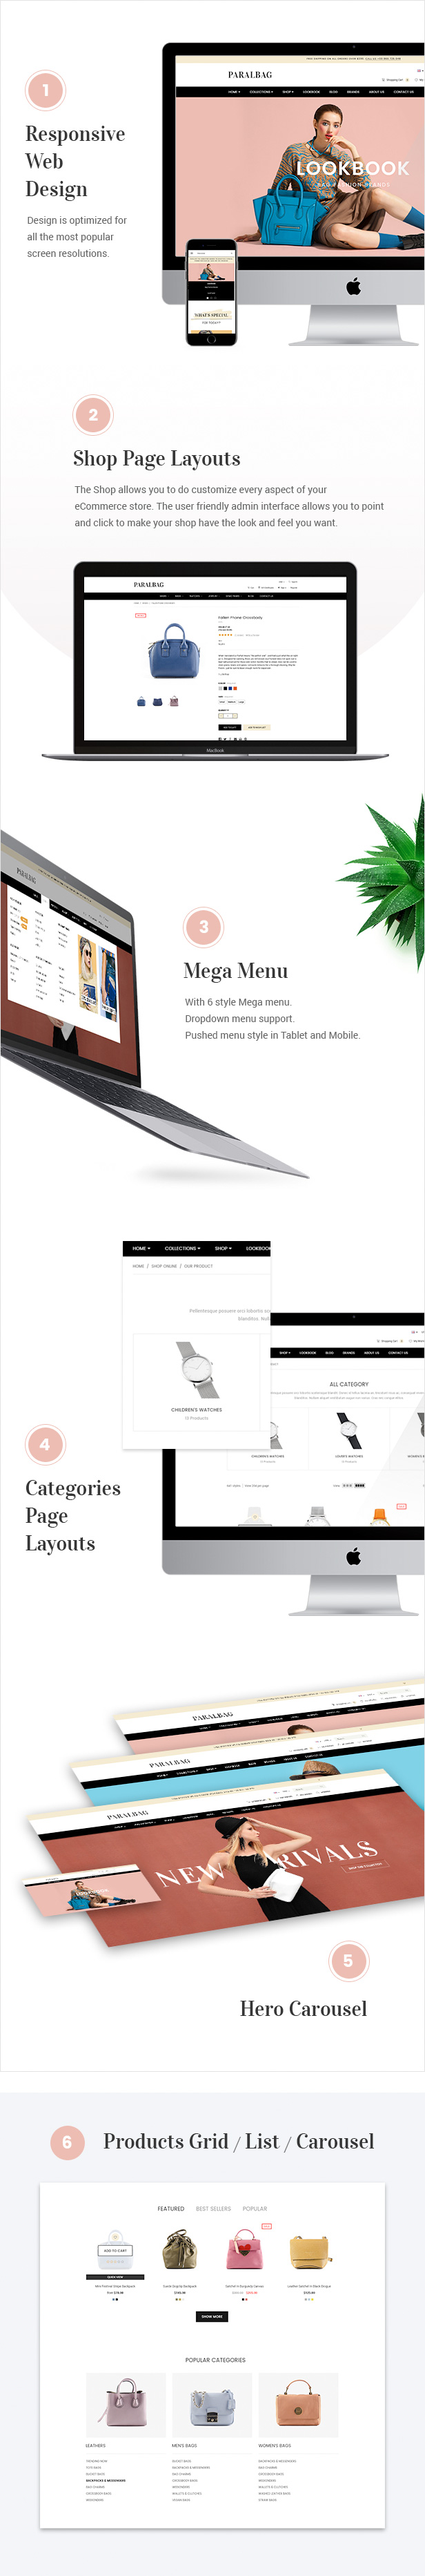
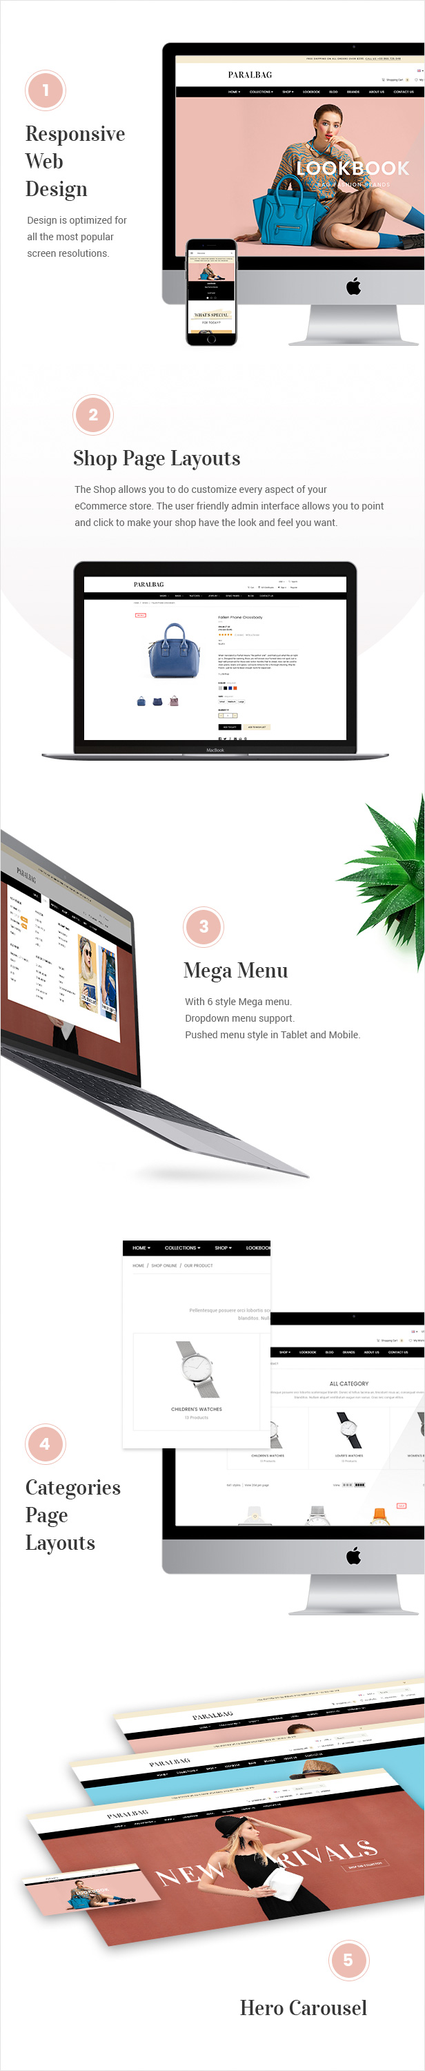
Update intro images

diff --git a/parallaxbag/intro/description.html b/parallaxbag/intro/description.html
@@ -1,0 +1,80 @@
+<table>
+<tr>
+<td><a href="mailto:tvlgiao@gmail.com"><img src="https://tvlgiao.github.io/bigcommerce-themes/parallaxbag/intro/images/02_Email-Us.png" alt="Email Us" /></a></td>
+<td><a href="http://bc-parallaxbag-docs.papathemes.com/"><img src="https://tvlgiao.github.io/bigcommerce-themes/parallaxbag/intro/images/02_Online-Documentation.png" alt="Online Documentation" /></a></td>
+<td><a href="https://papathemes.com/"><img src="https://tvlgiao.github.io/bigcommerce-themes/parallaxbag/intro/images/02_Online-Support.png" alt="Papathemes" /></a></td>
+</tr>
+</table>
+
+<p><img src="https://tvlgiao.github.io/bigcommerce-themes/parallaxbag/intro/images/03_Purchase-Now.png" alt="Purchase Now" /></p>
+<p><img src="https://tvlgiao.github.io/bigcommerce-themes/parallaxbag/intro/images/04_Features1.jpg" alt="Responsive Web Design, Shop Page Layouts, Mega Menu, Category Page Layouts, Hero Carousel, Products List" /></p>
+<p><img src="https://tvlgiao.github.io/bigcommerce-themes/parallaxbag/intro/images/04_Features2.jpg" alt="Products Grid / List / Carousel" /></p>
+<p><img src="https://tvlgiao.github.io/bigcommerce-themes/parallaxbag/intro/images/04_Features3.jpg" alt="Color Swatches on Product Cards" /></p>
+<p><img src="https://tvlgiao.github.io/bigcommerce-themes/parallaxbag/intro/images/04_Features4.jpg" alt="Custom Product Badges" /></p>
+<p><img src="https://tvlgiao.github.io/bigcommerce-themes/parallaxbag/intro/images/04_Features5.jpg" alt="Guide for Product Options" /></p>
+<p><img src="https://tvlgiao.github.io/bigcommerce-themes/parallaxbag/intro/images/04_Features6.jpg" alt="Many Banner Styles" /></p>
+<p><img src="https://tvlgiao.github.io/bigcommerce-themes/parallaxbag/intro/images/04_Features7.jpg" alt="Promotion Video" /></p>
+<p><img src="https://tvlgiao.github.io/bigcommerce-themes/parallaxbag/intro/images/04_Features8.jpg" alt="Recent Posts" /></p>
+<p><img src="https://tvlgiao.github.io/bigcommerce-themes/parallaxbag/intro/images/04_Features9.jpg" alt="Header Styles" /></p>
+<p><img src="https://tvlgiao.github.io/bigcommerce-themes/parallaxbag/intro/images/05_247-Support.jpg" alt="24/7 Support" /></p>
+
+
+
+<h2>Parallax BigCommerce Theme designed for fashion store selling bags, shoes, watches &amp; jewelry</h2>
+
+<p><strong>Paralbag</strong> is a <strong>responsive BigCommerce theme</strong> designed for <strong>fashion store</strong>. Suits for selling <strong>bags</strong>, <strong>shoes</strong>, <strong>watches</strong> and <strong>jewelry</strong>. Parallax page scrolling effect makes it look modern, impressive and premium. Design is clean, minimalist and professional.</p>
+<p>Theme is <strong>built with Stencil</strong>, compatible with the latest BigCommerce technology. The theme included detailed user guide, easy to install and configure everything in a few minutes. No coding skill required.</p>
+<p>Our support team is available 24/7 to answer you any technical problem.</p>
+
+
+<h2>Parallax Bag BigCommerce theme has many great features ready for running a successful e-commerce store:</h2>
+<ul>
+<li>Paralbag is tested and&nbsp;<strong>QC passed</strong>&nbsp;by the&nbsp;<strong>official BigCommerce technical staff</strong>.</li>
+<li>Built with&nbsp;<strong>Stencil framework</strong>, latest version and update to date. Compatible with BigCommerce latest version.</li>
+<li><strong>Responsive web design</strong>&nbsp;(RWD): Support mobile, tablet, small screen desktop and large screen.</li>
+<li><strong>Mega menu</strong>:&nbsp;lets you show categories and pages menu in multiple columns with fantastic banners and clear typography.</li>
+<li>The homepage includes many useful sections for ecommerce stores like:</li>
+<ul>
+<li>The&nbsp;<strong>main slideshow</strong>&nbsp;using slick carousel javascript, fully responsive and fast. Supports <strong>fixed width</strong> or <strong>full screen slideshow</strong>. No coding required. Just input heading, content, button, links and images. Multi-languages supported as well.</li>
+<li><strong>Creative banners</strong> let you show off promotions, fashion items with <strong>minimalist styles</strong>. Responsive and nice display on any desktop, mobile or tablets.</li>
+<li><strong>New products</strong>,&nbsp;<strong>feature products</strong>,&nbsp;<strong>bestselling products</strong>&nbsp;blocks. All these blocks can be configured to show up as&nbsp;<strong>grid</strong>,&nbsp;<strong>carousel</strong>, or&nbsp;<strong>column listing</strong>. You can also configure number of products, number of columns to display.</li>
+<li><strong>Newsletter form</strong> lets your customize opt-in the newsletter subscription for your email marketing campaigns.</li>
+<li><strong>Popular categories</strong> shows your top categories automatically.</li>
+<li><strong>Promotion video</strong> section allows you feature your favorite product video from Youtube.</li>
+<li><strong>Testimonials</strong> shows your customer testimonials and feedback and carousel slider.</li>
+<li><strong>Brands carousel</strong> lets you show your product brands automatically or manually. Furthermore, you can use this carousel to display any images as you want.</li>
+</ul>
+<li><strong>Header</strong>&nbsp;supports 3 common styles: Logo on the left, Logo on the right and Logo at center.</li>
+<li><strong>Footer</strong>&nbsp;supports to show your store info, address, links and your own custom links.</li>
+<li>Category page, products detail page, blog, post details, contact us, and all other pages are well styled precisely and pixel perfectly.</li>
+<li><strong>Powerful theme options</strong>&nbsp;that let you customize the theme without technical knowledge required:</li>
+<ul>
+<li>Fonts, typography and colors.</li>
+<li>All static content can be edited, show on/off in the theme options panel and in the language files.</li>
+</ul>
+<li>Paralbag theme supports&nbsp;<strong>language</strong> translations,&nbsp;<strong>multi-currencies</strong>&nbsp;and all other features which BigCommerce provides.</li>
+<li>The design is&nbsp;<strong>simple</strong>&nbsp;and&nbsp;<strong>minimal</strong>&nbsp;that can be used for any stores, especially&nbsp;<strong>fashion</strong>&nbsp;and&nbsp;<strong>bags store</strong>.</li>
+<li>Paralbag theme has&nbsp;<strong>detailed user guide</strong>&nbsp;to help you install and customize the theme for your own purposes.</li>
+<li>Installing the theme just takes a few minutes no technical required.</li>
+<li>Our support staffs are positive and enthusiastic to help you building a successful business.</li>
+</ul>
+<p>&nbsp;</p>
+
+<h2>Changelog</h2>
+<pre>
+## 1.1.0 (2017-07-24)
+- Don't show dark overlay when hover menu
+- Tweak CSS for product rating and qty on product page
+- Hide "some feature" section on homepage, move newsletter to bottom
+- Add option to on/off parallax, buy button, brand
+- Improve reviews section on product page
+- Improve better product images UX on product page
+- Make product gallery sticky
+- Fix CSS vertical slider arrow
+- Change cart to bag
+- Add new features allot to show Size Guide / Color Guide or custom guide on product options
+- Show * instead of "required" text on field label
+
+## 1.0.0 (2017-07-12)
+- First release version 1.0.0
+</pre>
